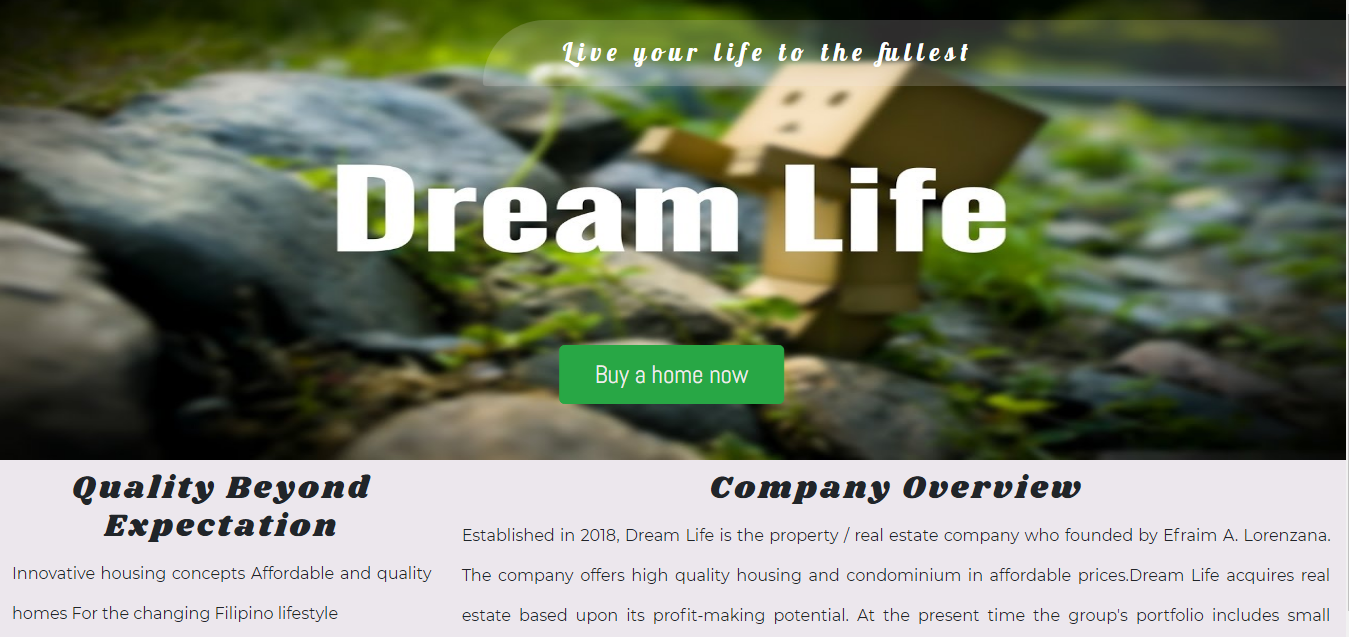
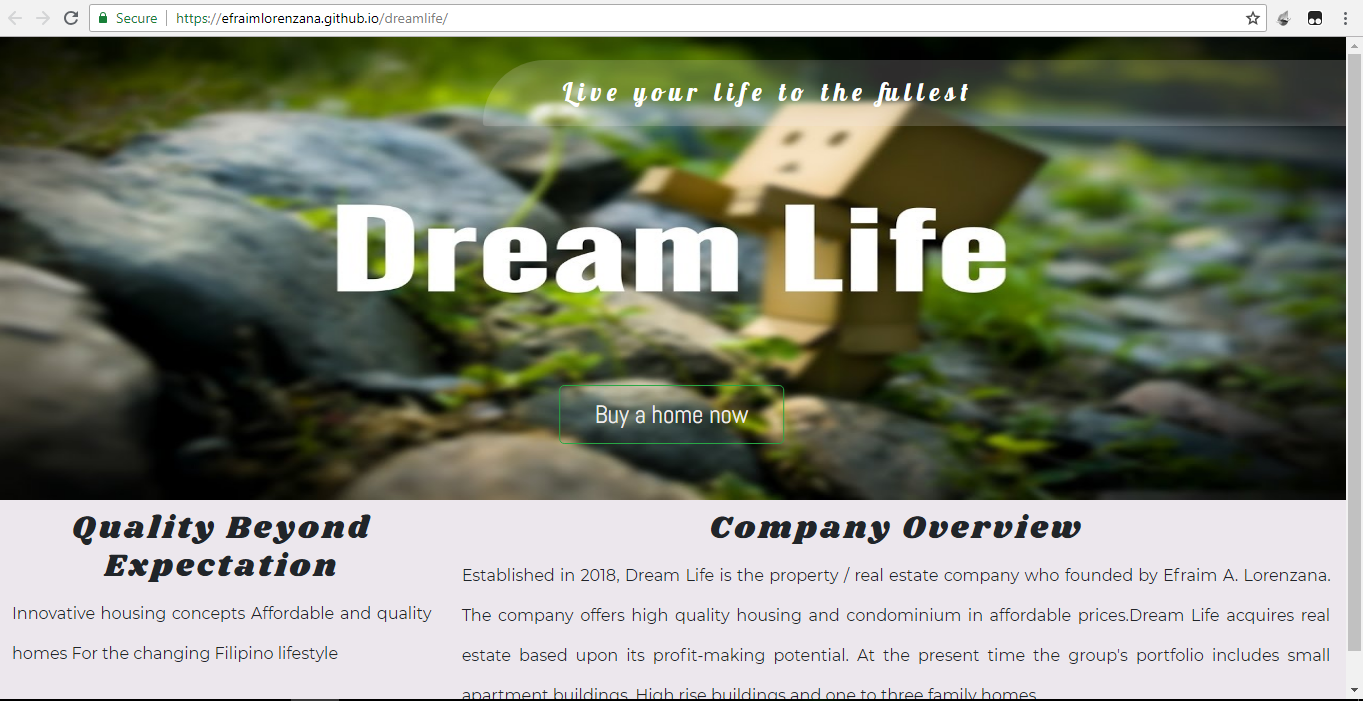
Update Data, fixed bugs in contacts

diff --git a/index.html b/index.html
@@ -26,6 +26,7 @@
 	<link rel="stylesheet" type="text/css" href="./assets/css/desktop.css">
 	<link rel="stylesheet" type="text/css" href="./assets/css/tablet.css">
 	<link rel="stylesheet" type="text/css" href="./assets/css/mobile.css">
+	<link rel="stylesheet" type="text/css" href="./assets/css/timeline.css">
 
 	<!-- Template -->
 	<!-- https://www.wix.com/website-template/view/html/1885/?siteId=dc2a3605-d782-456d-b46a-9c1f726975bd&metaSiteId=65c9126c-4af6-4899-b621-554d1fad7a0c&originUrl=https%3A%2F%2Fwww.wix.com%2Fwebsite%2Ftemplates%2Fhtml%2Fdesign%2Fportfolio -->
@@ -80,7 +81,7 @@
 
 				<div class="right col-lg-12">
 					<div class="px-3 py-2 mx-lg-5">
-						<h2 class="text-center mt-2">BIO</h2>
+						<h2 class="text-center mt-2">About Me</h2>
 						<p class="text-justify mt-3 mx-2">
 							Efraim is now a certified web developer, he recently graduated in TUITT Boothcamp Phillippines. But before he enroll in Tuitt, coding is already in his blood and passion. He was a graduate of Computer System Design and Programming, a 2 years laderize course offered at AMA Computer Learning Center back in 2009-2011. Because of his outstanding performance, he was awarded a certificate "Programmer of the Year". He was also the passer of TESDA Object-Oriented Programming Competency Certification NCIV in 2011. He used to be a windows application programmer and web designer in private sector before he shift to Material/Asset Management and later on, in HR Industry. In his spare time, he practice his coding skills, he also love playing games like chess and playing guitar. For him, coding is life and learning is limitless. he is now pursuing the 2nd chance for his career in IT Industry. In this page, you can find CONTACT section to reach him.
 						</p>
@@ -101,7 +102,8 @@
 			</div>
 		</section><!-- /#home -->
 
-		<section id="professional">
+		<section id="professional" class="csd-p">
+			<!-- <div class="csd"></div> -->
 			<div class="set-wrapper px-lg-5"><!-- row 1 -->
 				<h2 class="sectionheader">Professional</h2>
 				<h4 class="sectionheader">My Knowlege level in software</h4>
@@ -124,7 +126,7 @@
 						</div>
 						<div class="col-lg-9 col-md-12 col-sm-12">
 							<div class="progress">
-								<div class="progress-bar" role="progressbar" style="width: 15%;" aria-valuenow="15" aria-valuemin="0" aria-valuemax="100">15%</div>
+								<div class="progress-bar" role="progressbar" style="width: 50%;" aria-valuenow="50" aria-valuemin="0" aria-valuemax="100">50%</div>
 							</div>
 						</div>
 					</div>
@@ -190,7 +192,7 @@
 						</div>
 						<div class="col-lg-9 col-md-12 col-sm-12">
 							<div class="progress">
-								<div class="progress-bar" role="progressbar" style="width: 2%;" aria-valuenow="2" aria-valuemin="0" aria-valuemax="100">2%</div>
+								<div class="progress-bar" role="progressbar" style="width: 30%;" aria-valuenow="30" aria-valuemin="0" aria-valuemax="100">30%</div>
 							</div>
 						</div>
 					</div>
@@ -201,7 +203,7 @@
 						</div>
 						<div class="col-lg-9 col-md-12 col-sm-12">
 							<div class="progress">
-								<div class="progress-bar" role="progressbar" style="width: 1%;" aria-valuenow="1" aria-valuemin="0" aria-valuemax="100">1%</div>
+								<div class="progress-bar" role="progressbar" style="width: 15%;" aria-valuenow="15" aria-valuemin="0" aria-valuemax="100">15%</div>
 							</div>
 						</div>
 					</div>
@@ -303,6 +305,10 @@
 
 				<div id="gallery">
 
+					<div class="tech"><!-- React -->
+						<img src="./assets/img/technology/react.png" class="tech-img">
+					</div>
+
 					<div class="tech"><!-- HTML -->
 						<img src="./assets/img/technology/html.png" class="tech-img">
 					</div>
@@ -347,6 +353,8 @@
 				<div class="col-lg-12">
 					<h2 class="sectionheader">Experience</h2>
 				</div>
+
+				<div class="x"></div>
 			</div>
 		</section><!-- /#experience -->
 
@@ -355,10 +363,11 @@
 				<h2 class="sectionheader">Portfolio</h2>
 				<div id="gallery">
 					<div class="project"><!-- Capstone 1 -->
-						<img src="./assets/img/projects/dreamlife.png" alt="New Project - Coming soon">
+						<img src="./assets/img/projects/dreamlife.png" alt="Dream Life">
 						<div class="details text-center">
 							<h4>Dream Life</h4>
-							<p>this website is a real estate company</p>
+							<p>This website is a real estate platform</p>
+							<h6>HTML5 / CSS3</h6>
 							<a class="btn btn-danger w-50" href="https://efraimlorenzana.github.io/dreamlife/" target="_blank">Preview</a>
 						</div>
 					</div>
@@ -368,6 +377,7 @@
 						<div class="details text-center">
 							<h4>Empty</h4>
 							<p>please upload new project</p>
+							<h6>Technologies</h6>
 							<a class="btn btn-danger w-50" href="#" target="_blank">No Preview</a>
 						</div>
 					</div>
@@ -377,7 +387,28 @@
 						<div class="details text-center">
 							<h4>Empty</h4>
 							<p>please upload new project</p>
+							<h6>Technologies</h6>
 							<a class="btn btn-danger w-50" href="#" target="_blank">No Preview</a>
+						</div>
+					</div>
+
+					<div class="project"><!-- Robot Friends -->
+						<img src="./assets/img/projects/robot-friends.png" alt="Robot Friends">
+						<div class="details text-center">
+							<h4>Robot Friends</h4>
+							<p>Simple static page of robot profiles</p>
+							<h6>React / JSX</h6>
+							<a class="btn btn-danger w-50" href="https://efraimlorenzana.github.io/robot-friends/" target="_blank">Preview</a>
+						</div>
+					</div>
+
+					<div class="project"><!-- Gradient Generator -->
+						<img src="./assets/img/projects/gradient.png" alt="Gradient Generator">
+						<div class="details text-center">
+							<h4>Gradient Generator</h4>
+							<p>Simple tool to generate Gradient BG-color</p>
+							<h6>HTML5 / CSS3 / Javascript</h6>
+							<a class="btn btn-danger w-50" href="https://efraimlorenzana.github.io/gradient2/" target="_blank">Preview</a>
 						</div>
 					</div>
 
@@ -422,11 +453,11 @@
 				<div class="col-lg-12 col-md-12 col-sm-12">
 					<div>
 						<ul>
-							<li><a href="www.facebook.com/strife08"><i class="fab fa-facebook-f fa-2x"></i></a></li>
-							<li><a href="#"><i class="fab fa-github fa-2x"></i></a></li>
-							<li><a href="#"><i class="fab fa-codepen fa-2x"></i></a></li>
-							<li><a href="#"><i class="fab fa-gitlab fa-2x"></i></a></li>
-							<li><a href="#"><i class="fab fa-linkedin-in fa-2x"></i></a></li>
+							<li><a target="_blank" href="https://www.facebook.com/strife08"><i class="fab fa-facebook-f fa-2x"></i></a></li>
+							<li><a target="_blank" href="https://github.com/efraimlorenzana"><i class="fab fa-github fa-2x"></i></a></li>
+							<li><a target="_blank" href="https://codepen.io/efraimlorenzana/"><i class="fab fa-codepen fa-2x"></i></a></li>
+							<li><a target="_blank" href="https://gitlab.com/efraim.lorenzana"><i class="fab fa-gitlab fa-2x"></i></a></li>
+							<li><a target="_blank" href="https://www.linkedin.com/in/efraim-lorenzana-4bbb2575/"><i class="fab fa-linkedin-in fa-2x"></i></a></li>
 						</ul>
 					</div>
 				</div>

diff --git a/assets/css/style.css b/assets/css/style.css
@@ -76,6 +76,13 @@
  	text-align: center;
  	color: wheat;
  }
+
+ section#home > div > div > h2 {
+    background: linear-gradient(#ffffff4f, #00000052,black,black,black, #ffffff8a);
+    padding: 10px 0;
+    border-radius: 50px;
+ }
+
 img#myPic {
  	margin-top: 2%;
  	border: 3px solid wheat;
@@ -90,6 +97,10 @@ img#myPic {
  section#home > div > div.right > div {
  	background: linear-gradient(to right, rgba(0, 255, 0, 0.43), rgba(4, 4, 251, 0.25), rgba(245, 39, 10, 0.57));
  }
+
+ section#home > div > div > div> button {
+    margin: 10px 0;
+}
 
  section#technology > div.wrapper {
  	background-color: #000000bd;
@@ -168,7 +179,7 @@ img#myPic {
 
  section#contact > footer {
  	padding-top: 10px;
- 	background-color: gray;
+ 	background-color: black;
  	position: absolute;
  	text-align: center;
  	width: 100%;

diff --git a/assets/js/script.js b/assets/js/script.js
@@ -1,0 +1,18 @@
+let sectionContact = $('section#contact');
+let win = $(window);
+let contact = $('div#contact1');
+
+/// set contact section height to be responsive
+let h = win.height();
+window.addEventListener("resize", function () {
+	let dif = 0;
+	if(h > win.height()) {
+		dif = h - win.height();
+		sectionContact.height(sectionContact.height() + dif);
+		h = win.height();
+	}
+});
+
+window.addEventListener("load", function () {
+	sectionContact.height(contact.height()-150);
+});

diff --git a/assets/css/desktop.css b/assets/css/desktop.css
@@ -13,6 +13,9 @@
 	 section#home > div > div.right > div {
 	 	margin-top: 1%;
 	 }
+	 section#home > div > div > div> button {
+	 	margin: 10px 0;
+	 }
 
 	 section#contact > div > div > form {
 	 	margin: 10px 20px;
@@ -22,10 +25,10 @@
 	 div#contact1 {
 	 	position: absolute;
 	 	width: 80%;
-	 	top: -70%;
 	 	left: 50%;
 	 	transform: translate(-50%,0);
 	 	padding: 60px 30px 20px 30px;
+	 	bottom: 40%;
 	 }
 
 	 section#contact > div > div > form > div > input.btn {

diff --git a/assets/css/mobile.css b/assets/css/mobile.css
@@ -1,8 +1,8 @@
 @media only screen and (max-width: 600px) {
 
-	 img#myPic {
-	 	width: 50%;
-	 }
+	img#myPic {
+		width: 50%;
+	}
 
 	/*
 	 *
@@ -16,6 +16,12 @@
 
 	 section > div > div > h2.sectionheader {
 	 	padding: 15px 0; 
+	 }
+
+	 section#home > div > div > h2 {
+	 	background: linear-gradient(#ffffff4f, #00000052,black,black,black, #ffffff8a);
+	 	padding: 10px 5px;
+	 	border-radius:5px;
 	 }
 
 	 section#portfolio > div.wrapper > div#gallery {

diff --git a/assets/css/timeline.css b/assets/css/timeline.css
@@ -1,0 +1,12 @@
+.csd {
+  width: 100px;
+  height: 100px;
+  background-color: black;
+  position: absolute;
+  top: -4%;
+  left: 10%;
+  clip-path: polygon(50% 0%, 100% 38%, 82% 100%, 18% 100%, 0% 38%);
+}
+.csd-p {
+  position: relative;
+}

diff --git a/assets/css/tablet.css b/assets/css/tablet.css
@@ -21,6 +21,15 @@
 	 	letter-spacing: 3px;
 	 }
 
+	 div#contact1 {
+	 	position: absolute;
+	 	width: 80%;
+	 	left: 50%;
+	 	transform: translate(-50%,0);
+	 	padding: 60px 30px 20px 30px;
+	 	bottom: 30%;
+	 }
+
 	/*
 	 *
 	 * Classes
